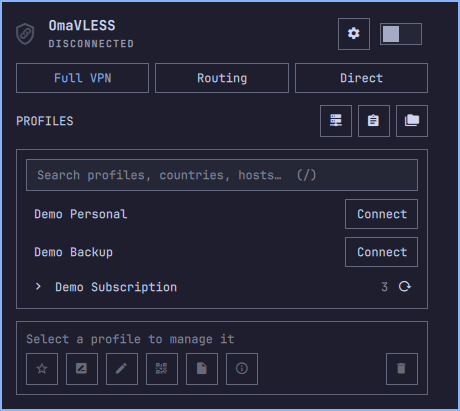
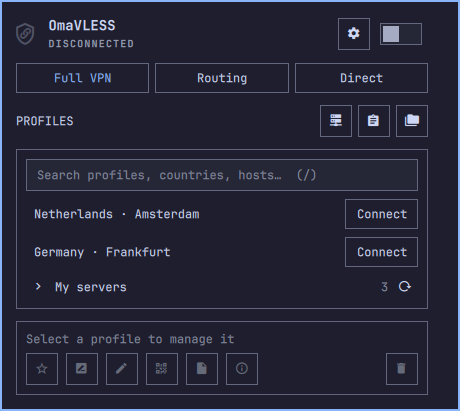
docs: recapture screenshots with natural country and city labels

Changed region(s): [[0.0609, 0.4964, 0.4261, 0.5547], [0.0609, 0.5839, 0.3652, 0.6423], [0.1217, 0.6715, 0.3957, 0.7299]]

diff --git a/tests/test-marketplace-assets.js b/tests/test-marketplace-assets.js
@@ -20,8 +20,11 @@ const root = path.join(__dirname, '..');
   assert.equal(projected.connected, false);
   assert.equal(projected.activeId, '');
   assert.equal(projected.profiles.length, 5);
-  assert(snapshot.profiles.every(p => p.name.startsWith('Demo ') && p.id.startsWith('demo-')));
-  assert(snapshot.subscriptions.every(s => s.name.startsWith('Demo ') && s.id.startsWith('demo-')));
+  assert.deepEqual(Array.from(snapshot.profiles, p => p.name), [
+    'Netherlands · Amsterdam', 'Germany · Frankfurt', 'Finland · Helsinki',
+    'Sweden · Stockholm', 'France · Paris']);
+  assert(snapshot.profiles.every(p => p.id.startsWith('demo-') && !/demo/i.test(p.name)));
+  assert(snapshot.subscriptions.every(s => s.name === 'My servers' && s.id.startsWith('demo-')));
   assert.equal(snapshot.startup.enabled, false);
   assert(parser.desktopCapabilities(JSON.stringify(response('native-desktop-capabilities'))));
   assert(parser.parseCoreSetupFacts(JSON.stringify(response('native-core-readiness'))));

diff --git a/docs/marketing/MARKETPLACE_080.md b/docs/marketing/MARKETPLACE_080.md
@@ -55,6 +55,16 @@ The fixture transport replaces only process responses; no profile or subscriptio
 is persisted. The actual installed service is not accessed by the test instance.
 See [reproduction and limits](../../tests/marketplace-visual/README.md).
 
+Owner-requested naming revision: visible labels use ordinary country/city names
+(Netherlands · Amsterdam, Germany · Frankfurt, Finland · Helsinki,
+Sweden · Stockholm, France · Paris) and “My servers”, without a “Demo” prefix.
+These are invented display labels, not actual provider locations or a claim of
+live connectivity. Internal fixture IDs and the disconnected state are unchanged.
+The affected main/expanded views are recaptured from QML, not image-retouched.
+Both revised captures were inspected at native size: country/city labels fit
+without clipping or shifting Connect controls. Fixture/parser/refusal tests and
+QML contracts pass. Settings is unchanged because it contains no profile names.
+
 - [Main panel](images/main-en.png): mode choices, row Connect actions,
   subscription refresh and separate management dock.
 - [Expanded subscription](images/subscription-en.png): demo child profiles and
